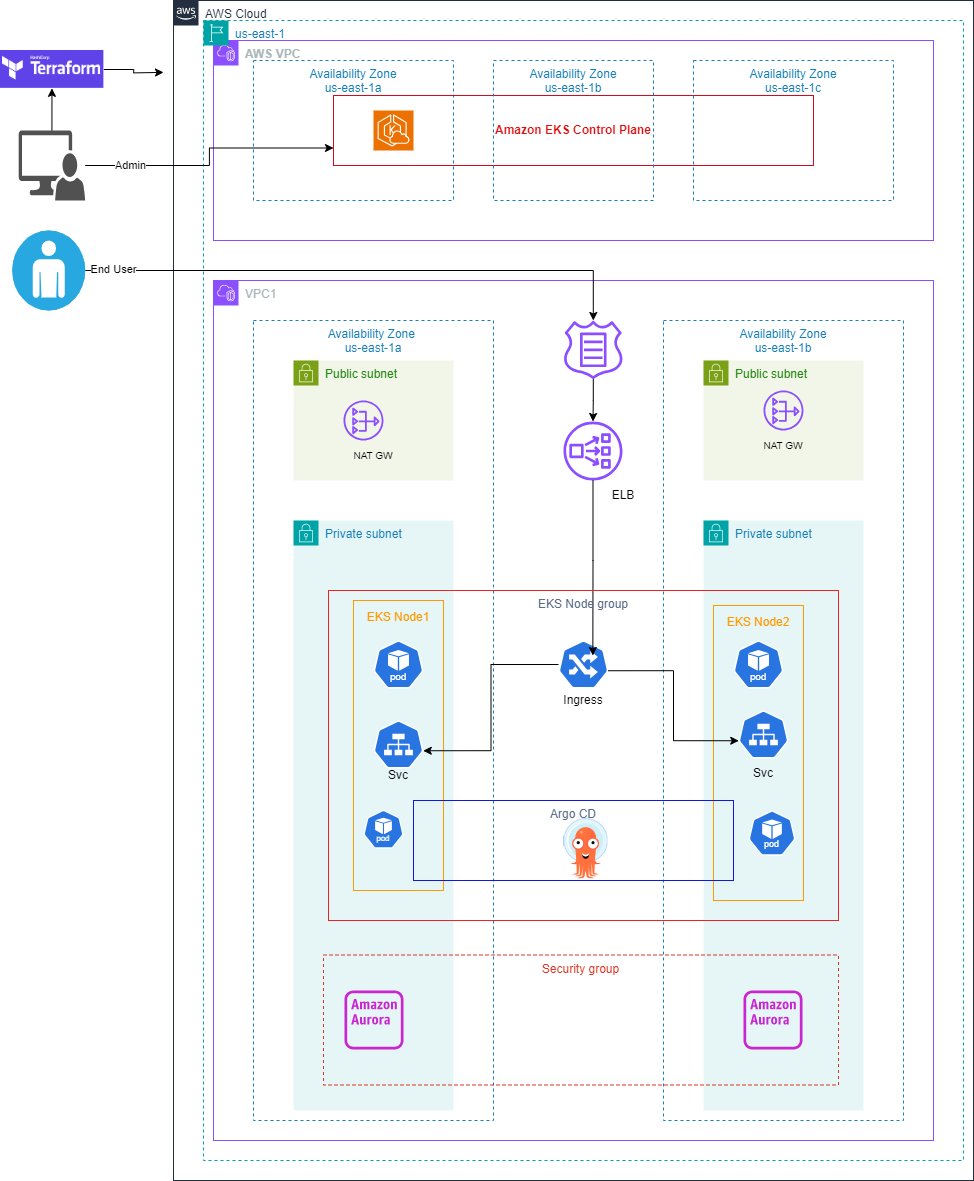
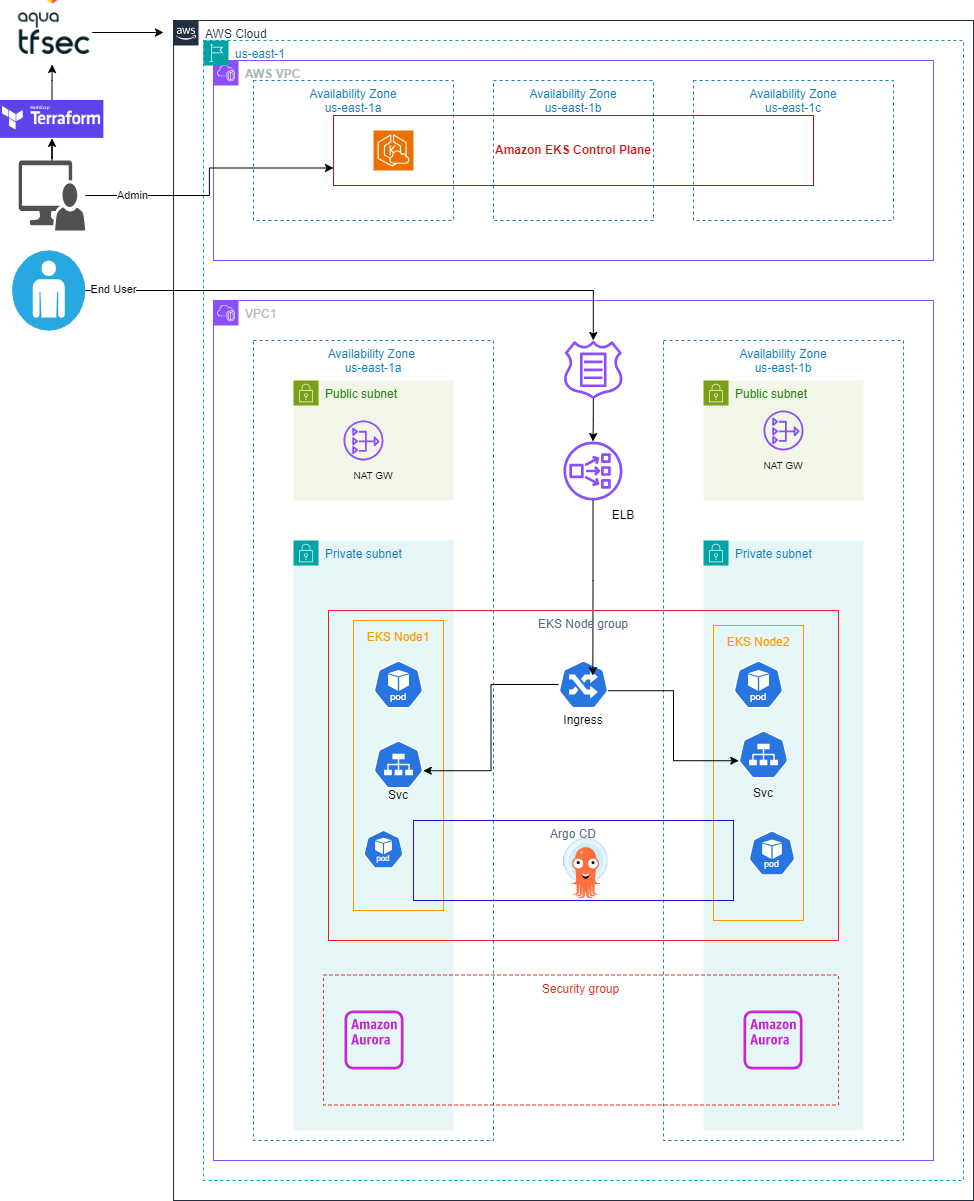
Initial Commit

diff --git a/Overview.md b/Overview.md
@@ -1,4 +1,6 @@
+--------------------------------------------------------------------------------------------
 Designing and Implementing a Resilient and Scalable Platform for Microservice Architecture
+--------------------------------------------------------------------------------------------
 
 1. Infrastructure Platform Selection:
 Compare to Onprem which require investment in hardware and lack of ability to scale easily.
@@ -17,15 +19,15 @@ Kubernetes by default which support recreate and rollingupdate deployment strate
 TFSec is a static analysis tool used to scan terraform code to identify and highlight gaps from security aspect from an infrastructure.
 
 6. Configuration Management:
-Kubernetes ConfigMaps helps to store configuration values.
+Kubernetes ConfigMaps and secrets which helps to store configuration and secret values.
 
 7. Monitoring Approach:
 New Relic is observability platform that provides solutions for Application Performance Monitoring, Infrastructure Monitoring and Log management. 
-New Relic Logs which send logs from EKS Cluster to New relic for centralized log management.
+New Relic Logs which send logs from EKS Cluster to New relic for centralized log managesment.
 Alert policies in New Relic used to notify any issues or anamolies in EKS environment.
 
+--------------------------------------------------------------------------------------------
 
-
-![Alt text](<CI CD Flow_v2.png>)
+![Alt text](<CI CD Flow_v2.png >)
 
 ![Alt text](EKS.png)
